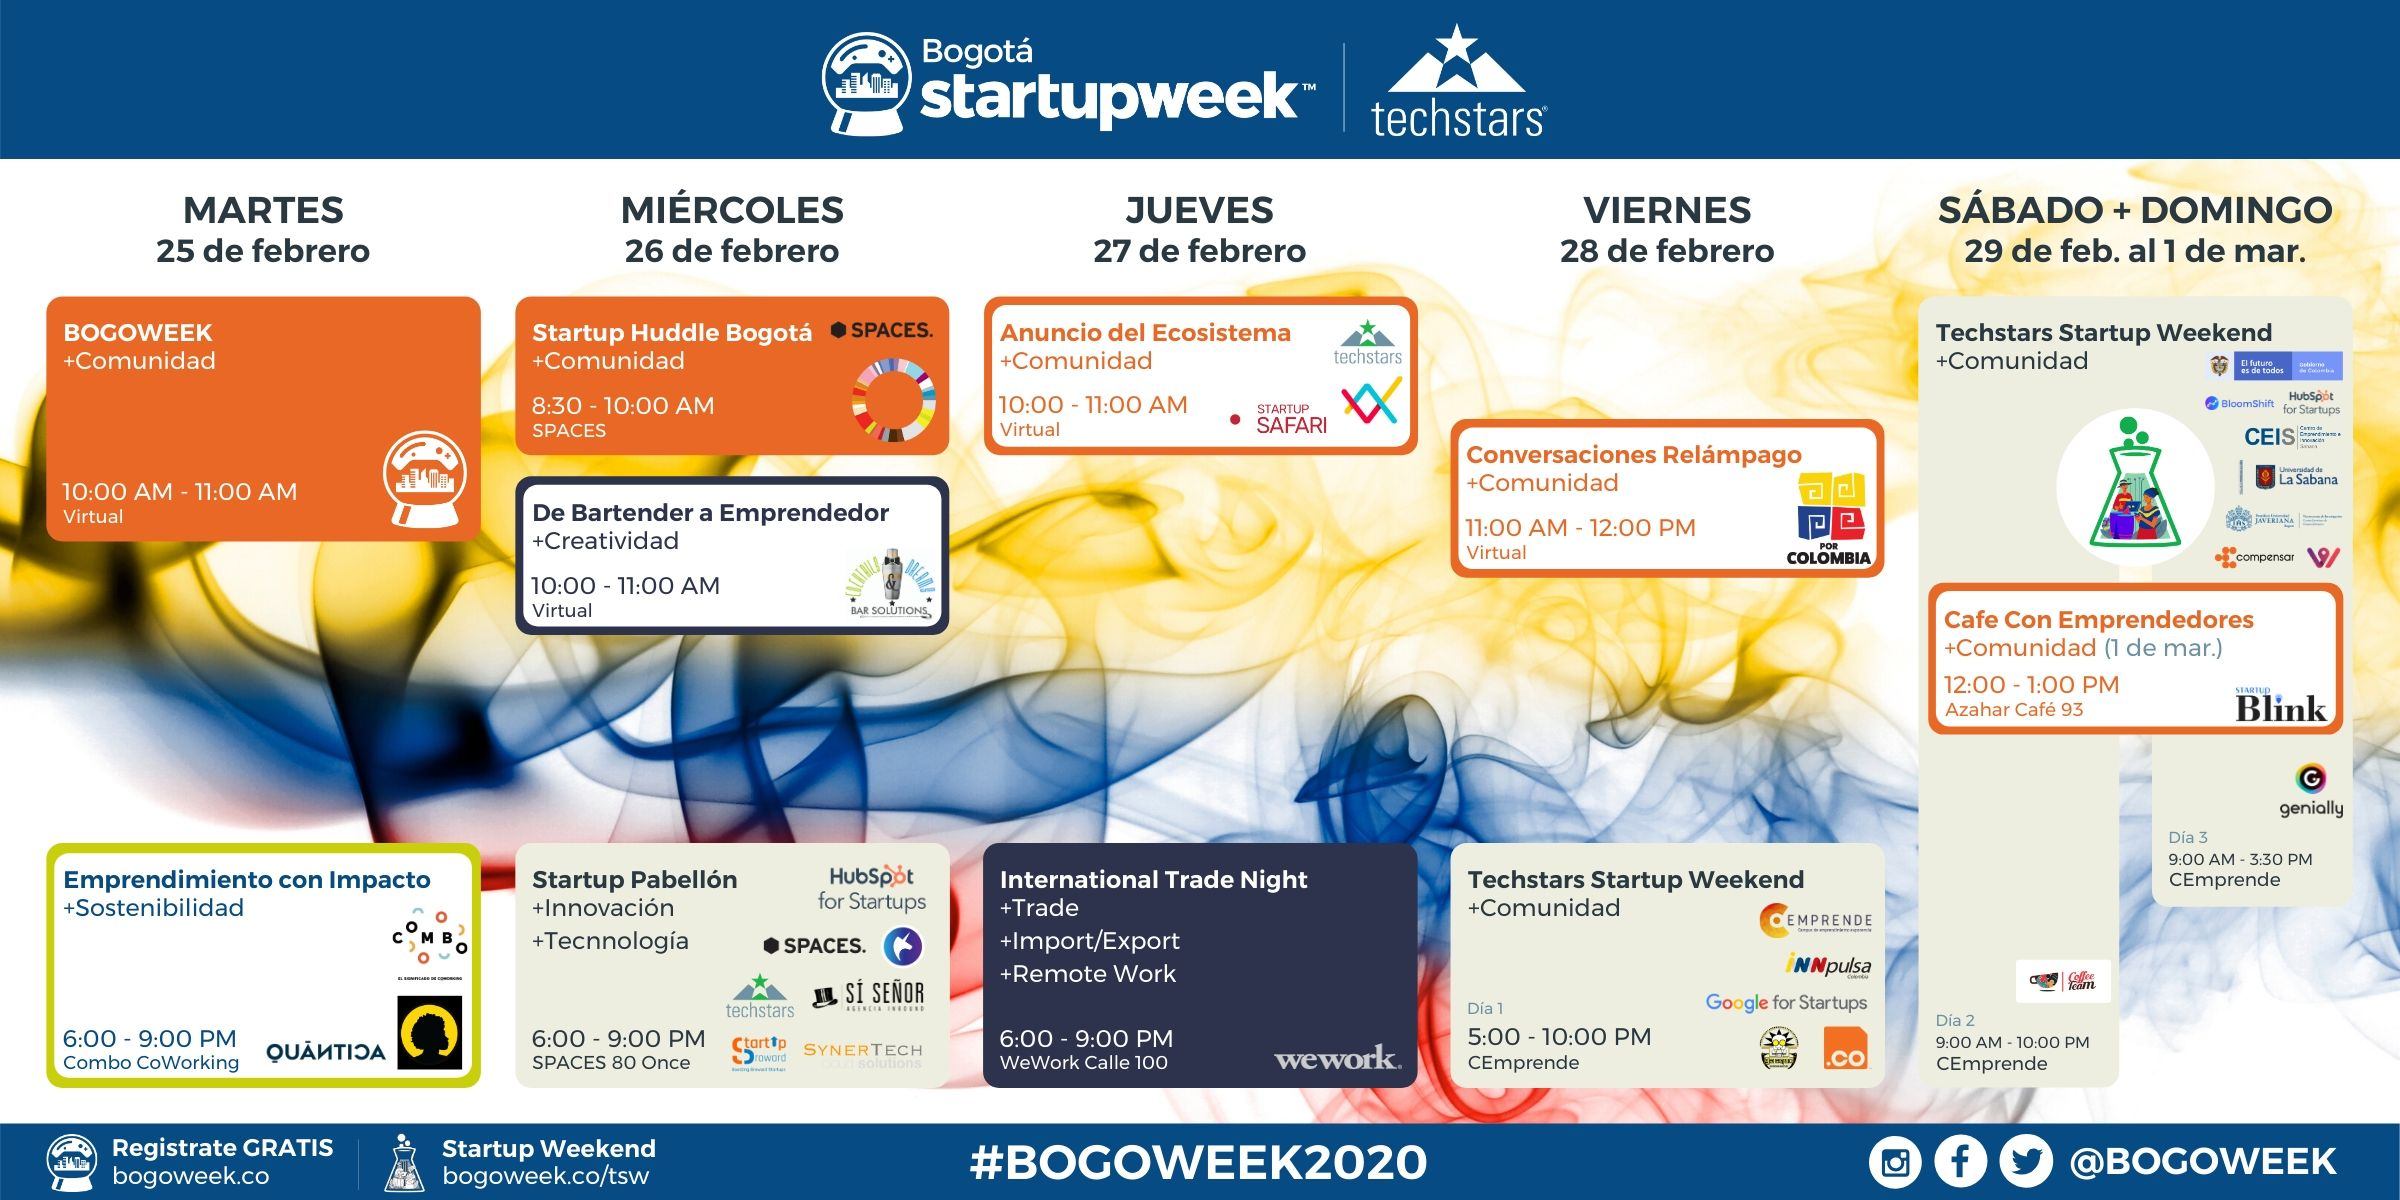
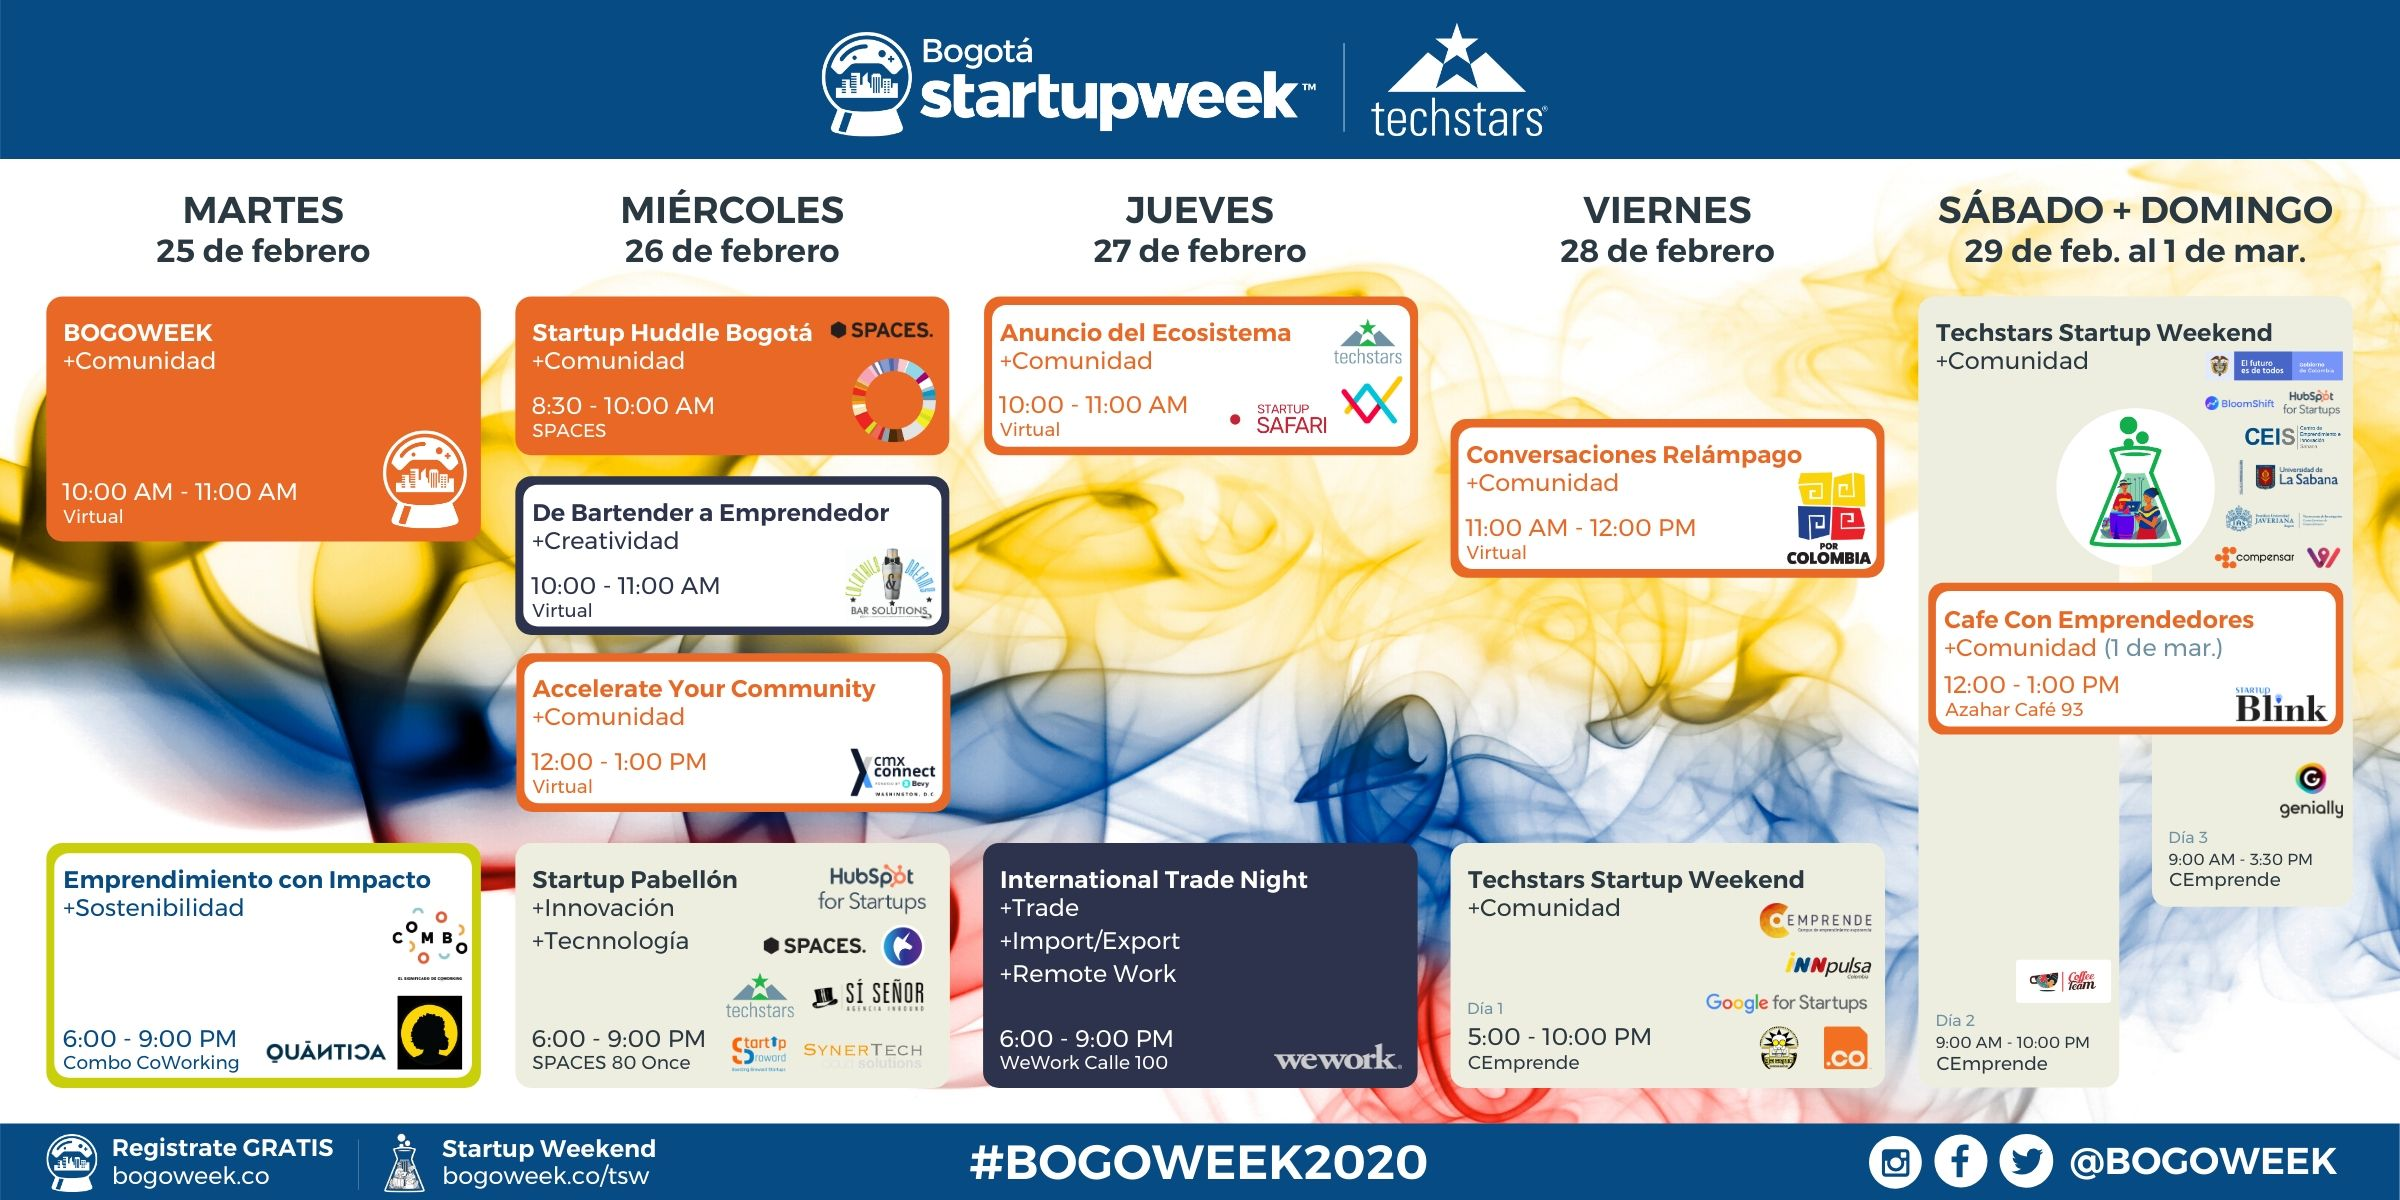
update events

Changed region(s): [[0.1875, 0.5242, 0.4062, 0.6783]]

diff --git a/_includes/twk_schedule-sec2.html b/_includes/twk_schedule-sec2.html
@@ -41,7 +41,7 @@
 			<div class="item clearfix">
 				<div class="heading">
 					<div class="time col-md-3 col-sm-12 col-xs-12">12:00pm - 1:00pm</div>
-					<div class="e-title col-md-9 col-sm-12 col-xs-12">Accelerate Your Community Through Partnerships with Juliana Cardona
+					<div class="e-title col-md-9 col-sm-12 col-xs-12">Accelerate Your Community Through Partnerships
 						<br/><span class="name">Juliana Cardona - </span><span class="speaker-designaition">Fundadora, Street Entrepreneurs</span>
 						<br/><span class="name">Mollie Colemane - </span><span class="speaker-designaition">Fundadora, High Calibur Productions</span>
 						<br/><span class="name">Brandon Dubé - </span><span class="speaker-designaition">Senior Product Manager AI &amp; Machine Learning, FiscalNote</span>
